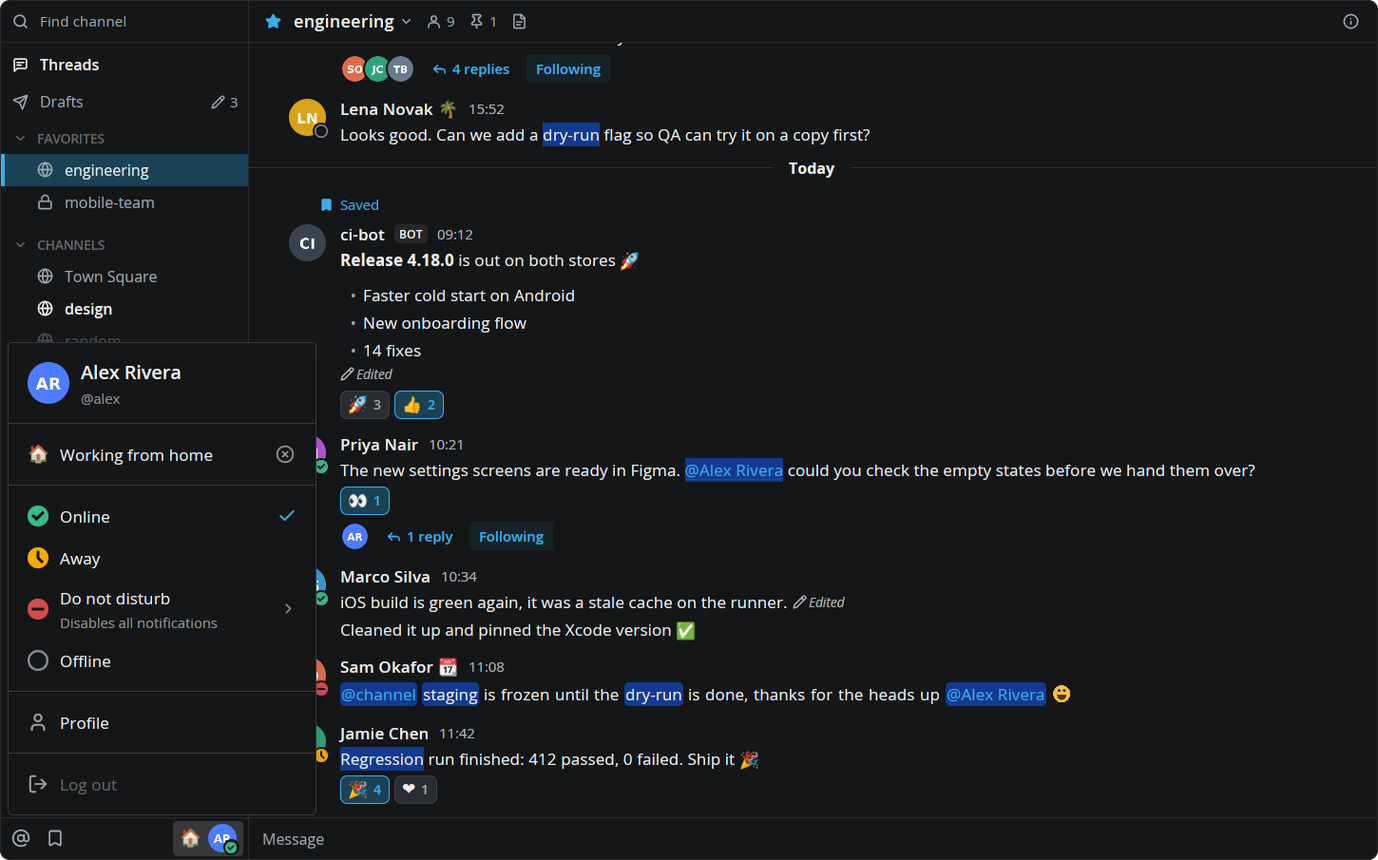
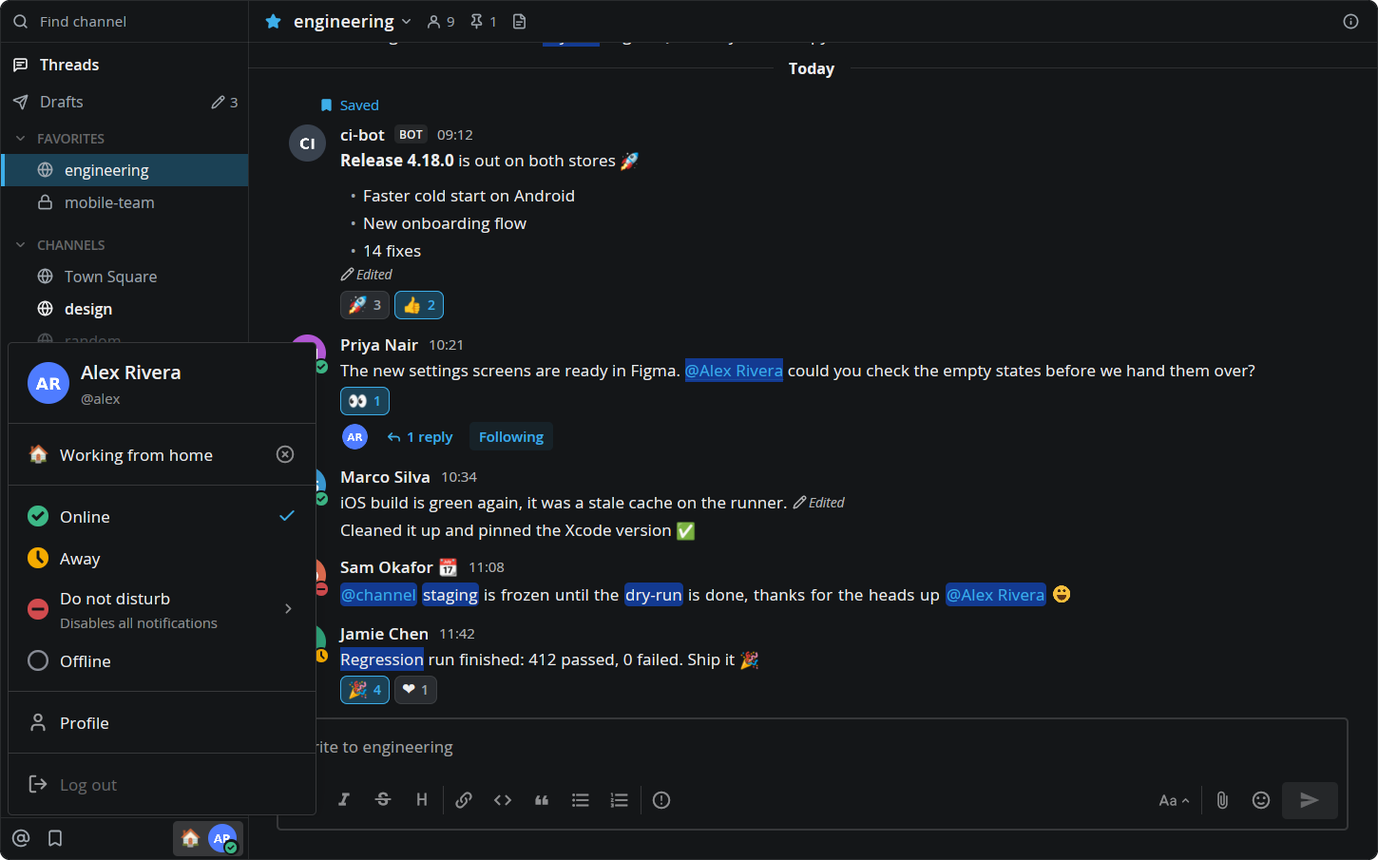
Document the message box and refresh the screenshots

Changed region(s): [[0.1862, 0.0309, 0.9, 0.9591], [0.5586, 0.0619, 0.6207, 0.0928], [0.1862, 0.9591, 0.2483, 0.9901]]

diff --git a/RECIPE.md b/RECIPE.md
@@ -25,7 +25,7 @@ The panel follows the Herdr theme (`background`, `foreground`, `accent`, `border
   - A ⋯ button shows on hover: Mark as Read/Unread, Favorite, Mute Channel, Move to… › (Favorites first, then your categories and New Category; channels can't go under Direct Messages nor conversations under Channels), Copy Link, and Leave Channel or Close Conversation.
   - Category headings have their own ⋯ menu: Mark category as read, Mute Category, Rename Category and Delete Category (custom ones), Sort › (alphabetically, recent activity, manually), Create New Category.
   - The Direct Messages heading's menu is Sort ›, Show › (10, 15, 20 or 40) and Open a direct message, which searches people.
-  - A 36px **footer** under the list, like the Find channel bar upside down, on one line with the message box beside it: two 28px toggles for Recent mentions (`@`) and Saved messages (a bookmark), `accent` while their list is open, and on the right a 30px account button. That's your 24px avatar with its status, and when you have a custom status its 18px emoji before it on a 16% pill. A press on the emoji opens Set a status, and anywhere else on the button opens the account menu. These live here and not in the channel header, because a channel header isn't there on Threads and Drafts.
+  - A 36px **footer** under the list, like the Find channel bar upside down: two 28px toggles for Recent mentions (`@`) and Saved messages (a bookmark), `accent` while their list is open, and on the right a 30px account button. That's your 24px avatar with its status, and when you have a custom status its 18px emoji before it on a 16% pill. A press on the emoji opens Set a status, and anywhere else on the button opens the account menu. These live here and not in the channel header, because a channel header isn't there on Threads and Drafts.
 - **The channel header**, 36px like the Find channel bar: a star (favorite, `accent` when on), the name with a ▾ menu, the member count, the pinned count and a files icon, each of which opens the right-hand panel, and an ⓘ on the far right. In a direct message the name carries the person's status and custom-status emoji, and its menu is View Info, Mute, Edit Header, Move to ›, Close Direct Message.
 - **Messages**, newest at the bottom:
   - A post is a 53px avatar column (32px avatar, status ring at its bottom right) and the content: the name in 14px semibold, the custom-status emoji (hover it for the status text and when it clears), a BOT tag for bots (10px semibold on an 8% pill), and the time in 12px at 73%. A post within 5 minutes of the same person's previous one leaves the header out.
@@ -50,7 +50,14 @@ The panel follows the Herdr theme (`background`, `foreground`, `accent`, `border
   - On the right, 40px buttons 8px apart (radius 4, white at 16% on hover) with 24px icons: public link (for a server file where `EnablePublicLink` is on), download, close.
   - The image sits in 48px of padding with radius 8, at its own size, shrunk only to fit.
 - **The image menu** opens at the pointer on a right-click on any picture in a message or the viewer: Save Image, Save Image As…, Copy Image. In the viewer, a server file also gets a line and Open in new tab, Open in new window.
-- **The message box** is a flat bar across the bottom of its column, 36px for one line, with a line on top and 12px on each side, so it mirrors the header above and runs level with the sidebar's footer. Mattermost's is a bordered box with margins, but no margin lets a box's middle match a bar flush with the panel's edge. Long text wraps and the bar grows upward, as in Mattermost up to half the height less 40px (here the panel's, and at least 3 lines), then scrolls inside. The footer stays put. Enter sends and Shift+Enter adds a line. Each channel and thread keeps its own text, so the box opens on that conversation's draft. A draft holding files says it sends with them.
+- **The message box** is Mattermost's: a box with a 2px border at 16% (24% on hover, 32% while it has the keyboard) and radius 4, 24px in from the column's sides (16px in the right-hand panel, 12px under its thread) with 24px under it for errors. Below a 768px wide panel it runs from edge to edge with no side borders, as Mattermost does on a narrow screen. The text is 14px on 20px lines, padded 13px 16px 12px, with the placeholder "Write to <channel>" or "Reply to this thread...". Long text wraps and the box grows upward, up to half the panel's height less 40px (at least 3 lines), then scrolls inside. Enter sends and Shift+Enter adds a line. Each channel and thread keeps its own text, so the box opens on that conversation's draft.
+  - **The formatting bar**, 48px under the text, 7px in, 32px buttons 2px apart with 18px Compass icons at 56%: Bold, Italic, Strikethrough, Heading, a 1px line at 16%, Link, Code, Quote, Bulleted list, Numbered list, then a line and Message priority (!) where the server has it. Each tooltip names the control and its shortcut.
+  - **On the right**, 7px from the corner: Aa with a chevron (shows or hides the bar), a line, the paperclip, the emoji button and Send, a 48×32 `accent` button with the paper plane that turns 8% with the plane at 32% while there's nothing to send.
+  - **With the bar hidden**, the actions share the text's line until it needs a second one, and in a reply box always sit under it, as Mattermost leaves the bar's room.
+  - **Narrower boxes give up controls** into a ⋯ "More formatting options" button, by the bar's own width as Mattermost's hooks measure it: all nine from 641px (620px in the right-hand panel), five from 424px (460px), two from 310px (340px), one below. A channel box keeps one extra control (priority) before losing another; the right-hand panel's doesn't. The separators show only when nothing is hidden. The hidden controls open as a row in a card (5px padding, a border at 16%, `shadow_md`) 4px over the button, centred on it, and stay open while you use them. Esc, a press in the box or anywhere else in the panel closes it.
+  - **The eye** in the box's top right shows the text as it will post (Show/Hide Preview), while the bar shows and there's text. The controls, priority, emoji and Aa are disabled meanwhile.
+  - **Message priority** opens Mattermost's picker over the button: "Message priority", Standard, Important and Urgent with a check on the chosen one, and, where the server has `PostAcknowledgements`, Request acknowledgement with a switch and Cancel / Apply. Without acknowledgements a choice applies at once. The choice shows over the text as an IMPORTANT or URGENT tag, a green check for an acknowledgement (with the words when there's no priority) and a × that takes it off. Sent posts carry the tag after their time.
+  - **Files**: the paperclip, Ctrl+U or a drop on the box adds files, up to 10 a post and none over the server's `MaxFileSize`. Each shows as a 240×56 card under the text with its name, type and size, "Uploading…" until it's up, and a × that takes it off the draft. Send waits for uploads to finish. A draft started in the web app shows its files the same way.
 - **Suggestions** open over the message box, the thread reply boxes and the edit box as you type, in a card up to 496×292 at the box's left edge (radius 4, a border at 16%, `shadow_lg`), 4px above it and as wide as the box when that's narrower. Uppercase 12px semibold group headings sit in 28px with 12px above, and every group after the first has a line at 8% over its heading. Rows are 40px (commands 57px), the selected one at 8%. Going by the text before the caret:
   - **`@`** after the start or a non-word character, then letters, digits, `-`, `_`, `.` or spaces: Channel Members (in a thread its authors first, then those starting with what you typed, then by your direct message's last view, then by name), Agents, Group Mentions with a member count, Special Mentions (@here, @channel, @all, only with `use_channel_mentions`) and Not in Channel. A row has the avatar with status, `@name`, a BOT, AGENT or GUEST tag, the full name and nickname, "(you)" and the custom status emoji. Names match on any part: the username split at `.`, `-` and `_`, first, last and nick names, ignoring accents. Until the server first answers for a channel, those who wrote in it stand in for its members. An "Other Members" group shows "Loading…" when the server takes over 500ms.
   - **`~`** after a non-word character: My Channels (your public ones at once, your private ones when the server answers), then Other Channels with "Loading…" until it does. Every typed word has to start a word of the name. With `DelayChannelAutocomplete` it waits for 2 characters.
@@ -111,6 +118,10 @@ The panel follows the Herdr theme (`background`, `foreground`, `accent`, `border
 - **Saving an image**: Save Image and the viewer's download button fetch the original file, not the preview, and put it in the downloads folder (`xdg-user-dir DOWNLOAD`, else `~/Downloads`), as `name (1).ext` when the name is taken. Any path in the name goes. A "Download Complete" toast shows where it went. Save Image As… asks through `kdialog` or `zenity` first and fetches only after that, and cancelling does nothing. Without either tool it saves to the downloads folder and says why.
 - **Copy Image** puts the original on the clipboard as a PNG, because Chromium-based apps read only `image/png`. Without `ffmpeg` the file goes as it is.
 - **Open in new tab and Open in new window** draw only the viewer, in a tab of the current space or a floating window. They work with no panel running. The new tab is disabled while there's no space, and it has no ✕ because its tab bar closes it.
+- **Formatting** does to the text exactly what Mattermost's `apply_markdown.ts` does, ported as it is: Bold and Italic wrap the selection in `**` or `*` (leaving spaces at its ends outside, taking them off when they're already there, and Italic on `**text**` adding to it), Strikethrough in `~~`, Code in `` ` `` or a fenced block when the selection spans lines, Link in `[text](url)` with `url` selected (around the word at the caret with nothing selected), and Heading, Quote and the lists prefix every selected line with `### `, `> `, `- ` or `1. `, `2. `… or take it off when every line has it. The new selection is Mattermost's. Each change goes into the draft as typing would.
+- **Composer shortcuts**, from Mattermost's key handler: Ctrl+B, Ctrl+I, Ctrl+K (only with a selection), Ctrl+Alt+K, Ctrl+Alt+C, Shift+Alt+X, Shift+Alt+7, 8 and 9, Ctrl+Alt+T (the bar), Ctrl+Alt+P (preview), Ctrl+Alt+E (emoji) and Ctrl+U (files). They do nothing with the caret inside a code block, as there. Ctrl+Shift+E, Mattermost's other emoji key, is Herdr's own split, so it's left to Herdr.
+- **The formatting bar's state** is Mattermost's `advanced_text_editor` preference, `post` for a channel and the Threads page and `comment` for the right-hand panel, so it's kept on the server and follows you to the web app and back. The demo keeps it in `localStorage`.
+- **Emoji from the box's picker** go in at the caret as their character (custom ones as `:name:`), with a space after and one before when they'd touch a word.
 - **Keyboard**: a click in the panel takes the keyboard, like a pane. If the message box has it, the box keeps it, as in Mattermost. Esc closes popups and cancels an edit. Up/down and Enter drive Find Channels. An open suggestion list gets up, down, Tab, Enter and Esc first.
 - **Commands**: a message starting with `/` goes to `/commands/execute` instead of `/posts`, with the channel and thread, and the answers arrive over the websocket as `ephemeral_message`: drawn as from System with the BOT tag and "(Only visible to you)", gone at the next reload. A `goto_location` opens that conversation here, or the browser for another site. A command the server refuses goes back in the box with the server's message, and a second Enter on an unknown one sends it as text. As in Mattermost, a leading space makes it plain text. `/header` and `/purpose` alone open their dialogs, and `/leave` asks first in a private channel, closes a direct or group message and says it can't work in a thread. A command is sent once, with 60 seconds to answer, because sending it again could run it twice. It takes no files, so a draft's files stay in the draft for the next message.
 - **The tab badge**: the panel publishes `shared("mattermost.badge")` = `{ mentions, unread }` (mentions as a count, else unread means a dot) for a tab bar button, `shared("mattermost.alive")` = the time it last ran (restamped every 15s, cleared when the last copy closes; shared state outlives a restart, so a button treats a stamp older than 40s as not running and grays out), and `shared("pane-header:mattermost")` = `{ name, detail, icon, tint, loading }` for a pane header.
@@ -125,6 +136,7 @@ The panel follows the Herdr theme (`background`, `foreground`, `accent`, `border
   - `src/menu.js` holds every menu and its forms.
   - `src/picker.js` is the emoji picker and `src/switcher.js` is Find Channels.
   - `src/suggest.js` is the suggestion lists: what triggers them, their requests, ranking and drawing.
+  - `src/composer.js` draws the message boxes, each a retained part of its own, and `src/format.js` is the formatting: Mattermost's apply_markdown ported, the bar's layout modes, the shortcuts and reading the selection. `src/priority.js` is message priority (the picker is a popup copy with the prop `priorityPicker`), and `src/upload.js` is choosing and uploading files.
   - `src/dialog.js` has the status card and the edit-header dialog.
   - `src/image.js` is the image viewer, the image menu's entries, and saving and copying images.
   - `src/profile.js` is the Profile modal and its first tab, `src/picture.js` the picture section, `src/security.js` the Security tab, and `src/setting_item.js` the sections, fields, buttons and stacked modals they share.
@@ -137,7 +149,7 @@ The panel follows the Herdr theme (`background`, `foreground`, `accent`, `border
   - `src/media.js` downloads images and files, makes posters and starts the player.
   - `demo/demo.js` is a made-up team, with its initials avatars in `demo/avatars/` and its pictures and clips in `demo/media/`.
   - `emoji/emoji.json` maps names to characters, and `emoji/picker.json` holds the picker's categories.
-  - `icons/` has the SVGs, referenced as `mods/mattermost/icons/<name>.svg`: Lucide-style line icons (24px viewBox, stroke `currentColor`), plus the Mattermost logo, the four status shapes, and Mattermost's Compass `link-variant` and `download-outline` (filled with `currentColor`).
+  - `icons/` has the SVGs, referenced as `mods/mattermost/icons/<name>.svg`: Lucide-style line icons (24px viewBox, stroke `currentColor`), plus the Mattermost logo, the four status shapes, and Mattermost's Compass `link-variant` and `download-outline` (filled with `currentColor`). `icons/compass/` has the composer's Compass icons, filled the same way, under their own licence (`LICENSE-compass`).
   - Modules in `src/` import shared helpers back from `../main.js`.
 - **Where it goes**, either way:
   - **A pane**: `herdr-app do pane.split --direction right --mod mattermost`.
@@ -163,6 +175,7 @@ The panel follows the Herdr theme (`background`, `foreground`, `accent`, `border
   - Security: `PUT /users/{id}/password`; `PUT /users/{id}/mfa`, `POST /users/{id}/mfa/generate`; `GET /users/{id}/oauth/apps/authorized`, `POST /oauth/deauthorize` (outside `/api/v4`); `GET` and `POST /users/{id}/tokens`, `POST /users/tokens/{revoke,disable,enable,rotate}`; `GET /users/{id}/sessions`, `POST /users/{id}/sessions/revoke`; `GET /users/{id}/audits`.
   - Highlighting and status: `/license/client?format=old`, `/cloud/subscription` and `/cloud/products` (on cloud, with keywords set), `POST /users/status/ids` for `manual`, `PUT /users/{me}/status` with the whole status, preference `auto_reset_manual_status` (name = your user id).
   - Drafts: `/users/me/teams/{team}/drafts`, `POST /drafts`, `DELETE /users/me/channels/{id}/drafts` (`/{root}` for a thread's).
+  - The message box: `POST /files` (multipart `files` and `channel_id`, by `curl`), `GET /files/{id}/info` for a draft's files, `PUT` preferences `advanced_text_editor` (`post`, `comment`; `"true"` hides the bar), and `metadata.priority` (`priority`, `requested_ack`, `persistent_notifications`) on `POST /posts` and as `priority` on `POST /drafts`. The client config's `PostPriority`, `PostAcknowledgements`, `EnableFileAttachments` and `MaxFileSize` decide what the box offers.
   - Images: `GET /files/{id}` for the original, `GET /files/{id}/link` for the public link (`{ link }`).
   - Suggestions: `/users/autocomplete?in_team=&in_channel=&name=&limit=25`, `/teams/{team}/channels/autocomplete`, `/emoji/autocomplete`, `/teams/{team}/commands/autocomplete_suggestions`, `/groups?q=&filter_allow_reference=true` (with `EnableCustomGroups` or an LDAP groups license from `/license/client`, and with `use_group_mentions`; in a group-constrained team or channel only its groups and custom ones), `/agents`. Permissions come from `/roles/names` for your system, team (`/users/me/teams/members`) and channel roles, asked the first time they're needed and allowed until answered.
   - Actions: `/posts`, `/commands/execute`, `/posts/{id}/patch`, `/reactions`, `/channels/members/me/view`, `/posts/{id}/pin`, `/users/{me}/posts/{id}/reminder`, `/users/{me}/posts/{id}/set_unread`, category `PUT`s, preference `PUT`s (`flagged_post`, `recent_emojis`, `direct_channel_show`, `sidebar_settings`), `/channels/direct`, `/teams/{team}/channels/search`, `/users/autocomplete`, `/emoji`.
@@ -218,8 +231,10 @@ The panel follows the Herdr theme (`background`, `foreground`, `accent`, `border
 - **Animations are expensive**: `image()` plays GIF and animated WebP natively but decodes every frame up front, and Herdr keeps decoded images until it quits (herdrdev/herdr-app#22). Playing two small clips took the app from 6% to 24% of a core. So they start as stills, one plays at a time, and past 512 MB of decoded frames they open in the player instead. Thumbnails and icons stay on their first frame. Servers count frames only for GIFs, so each downloaded picture's header is checked, leaving an `.anim` marker beside it. Every static image stays in memory too, so one over 64 megapixels, by the server's word or `ffprobe`'s (a `.big` marker), isn't drawn and is a link to itself instead.
 - **Herdr has no video element or web view**, so a video can't play with sound inside the panel. `mpv --vo=kitty` in a terminal block and flipping frames through `image()` both grow memory without limit (#22).
 - **State can't be created while drawing**: `InputState.new` and `TextareaState.new` throw. Create text boxes in `init` (the setup form's too, before knowing whether it's needed), and hand popup requests to `cx.timer.after(0, ...)`.
-- **A mod can't read the caret**: `InputState` has `set_selected_range` and `replace` (both in JavaScript string offsets) but no getter. An edit leaves the caret right after what changed, so comparing the old and new text gives the place, helped by the last known caret when equal letters make it ambiguous. Left, right, home, end, select all and a press in the box can move it unseen, so they close an open list, and the place stays unknown until the next edit. Mattermost keeps the list open then. The list also can't start at the caret as Mattermost's does, since a mod can't measure text.
+- **A mod can't read the caret**: `InputState` has `set_selected_range` and `replace` (both in JavaScript string offsets) but no getter. To format, the box swaps the selection for a private-use character (U+E000) with `replace`, finds it in `value()`, takes what went missing as the selection, and puts the text back with `set_value` and `set_selected_range` before applying the change, all in one handler. Herdr reports a single `change` after the handler, by which time the text is the formatted one, so the draft and the suggestions never see the marker; the box already holds what that event would tell them. Offsets are UTF-16 throughout, so emoji and Cyrillic count as `slice` counts them. For suggestions, an edit leaves the caret right after what changed, so comparing the old and new text gives the place, helped by the last known caret when equal letters make it ambiguous. Left, right, home, end, select all and a press in the box can move it unseen, so they close an open list, and the place stays unknown until the next edit. Mattermost keeps the list open then. The list also can't start at the caret as Mattermost's does, since a mod can't measure text.
 - **Up, down and Tab are actions**: the box's Tab moves the keyboard on before `on_key_down` hears it, and a textarea keeps all three. So they're bound with `cx.bind_keys` to actions the box handles, in the context `mattermost-suggesting > Input`, which outranks the kit's `Input` bindings. The box declares that context only while a list has rows. Never bind them more widely: Herdr reports any action no element handles as an unknown command, in a toast, and stops there, which breaks those keys in every text box of the app. Herdr also drops a mod's bindings whenever `keys.json` changes, even for a save with the same text, so they're installed again when a list opens and the file's modified time differs from last time. Binding them on every open would pile them up, since `cx.bind_keys` only adds.
+- **The composer's shortcuts are `on_key_down` on the box**, not `cx.bind_keys`: the text box has no action of its own for them, so the keys reach its parent, and nothing is bound app-wide. A key Herdr binds itself (Ctrl+Shift+E) never gets there.
+- **A text box paints its own background over an absolutely placed sibling drawn before it**, so the preview's eye comes last in the box. The placeholder sits on the box but is drawn only while it's empty.
 - **A textarea puts the line break in before it reports Enter**, and `set_value` reports no `change` (Herdr 0.1.11). So the message and edit boxes remember the text from before the last change, restore it on a plain Enter and then send. The boxes also remember what was put in them as `shown`, since text equal to that isn't an edit.
 - **Presses**:
   - A press that bubbles out of the panel makes Herdr give the keyboard to the block. So the panel's root stops every left press, and text boxes stop their own.
@@ -235,7 +250,7 @@ The panel follows the Herdr theme (`background`, `foreground`, `accent`, `border
 - **Scrolling**: only virtual lists can be scrolled from a mod, so an opened section can sit below the fold. A `Scrollbar` with `.mode("always")` can be dragged with injected input, which is the way to test scrolling.
 - **Demo**: its made-up server lives in each copy of the mod, so the dialog's tokens and sessions reset when it reopens.
 - **Open Sans** must be installed; without it text falls back to the UI font and the spacing drifts.
-- **Not built**: Settings (Mattermost's dialog is about 13,400 lines of its own), keyboard control of the date and time dropdowns, your Mattermost timezone setting (times use the machine's), editing graph-type custom attributes, keyboard control of the Profile sidebar, suggestions from Mattermost's Apps framework (`FeatureFlagAppsEnabled`), plugin icons in the command list, shared-channel and imported-inactive markers in the people list, the `+:emoji:` shortcut for reacting, interactive dialogs that commands open (`trigger_id`), Forward, a custom Remind time, the emoji skin-tone picker, Select All in the image menu (a mod can't select across a message's text views), the viewer's zoom bar and its previews of files that aren't still pictures, keyboard shortcuts inside menus, the + beside the Direct Messages heading, scheduling a draft and scheduled messages, file uploads, buttons and menus in bot attachments, `~channel` and `#hashtag` links, inline code boxes and paragraph spacing like Mattermost's, and hover-only link underlines (Herdr's markdown always underlines links and draws inline code as a flat background; herdrdev/herdr-app#131).
+- **Not built**: Settings (Mattermost's dialog is about 13,400 lines of its own), keyboard control of the date and time dropdowns, your Mattermost timezone setting (times use the machine's), editing graph-type custom attributes, keyboard control of the Profile sidebar, suggestions from Mattermost's Apps framework (`FeatureFlagAppsEnabled`), plugin icons in the command list, shared-channel and imported-inactive markers in the people list, the `+:emoji:` shortcut for reacting, interactive dialogs that commands open (`trigger_id`), Forward, a custom Remind time, the emoji skin-tone picker, Select All in the image menu (a mod can't select across a message's text views), the viewer's zoom bar and its previews of files that aren't still pictures, keyboard shortcuts inside menus, the + beside the Direct Messages heading, scheduling a draft and scheduled messages, the formatting bar in the edit box (Mattermost has it there too), persistent notifications for urgent messages (the switch, its confirmation and the mention checks), the acknowledgement button on posts, the GIF picker, an upload's progress in percent, pasting images into the box, buttons and menus in bot attachments, `~channel` and `#hashtag` links, inline code boxes and paragraph spacing like Mattermost's, and hover-only link underlines (Herdr's markdown always underlines links and draws inline code as a flat background; herdrdev/herdr-app#131).
 - **Copy Image** runs `wl-copy`, so it works on Wayland only; on X11 or macOS swap in `xclip` or `pbcopy`. Links open with `xdg-open` (`open` on macOS).
 - **`exec("wl-copy", ...)` doesn't return for up to 30s**, because `wl-copy` keeps `exec`'s stderr pipe open. Text goes through `cx.write_to_clipboard`, and Copy Image redirects `wl-copy`'s output inside `sh -c`.
 - **`ffmpeg` reads a file named `.jpg` through `image2`**, which `FF_FORMATS` leaves out, so Copy Image pipes the file through stdin.
@@ -264,7 +279,10 @@ The panel follows the Herdr theme (`background`, `foreground`, `accent`, `border
 - Typing in a channel and opening another leaves the box empty and adds one to the count, and going back brings the text back. With a real login the draft also shows in the web app's Drafts, and one written there shows here within a second.
 - With `props: { demo: true, channel: "engineering" }`, `@` in the message box lists Channel Members, then Group Mentions, Special Mentions and Not in Channel (ines, tom). Down scrolls the list, Enter or Tab puts the name in with a space and the caret after it, and Tab with no list open moves the keyboard on with no toast.
 - `~` lists My Channels then Other Channels (Hiring, Offsite 2026), `:sm` lists emoji, and `/` lists commands. `/echo` and Enter, Enter again on Execute Current Command shows a System post with "(Only visible to you)". `/nope x` shows the server's error and keeps the text, and a second Enter sends it.
-- Text longer than the box wraps and the box grows upward. Shift+Enter adds a line, Enter sends it with the line break, and a two-line draft keeps its lines after leaving the channel and coming back. With nothing typed, the line above the box and the footer's line are one line, and the box's text and the footer's icons share a middle.
+- Text longer than the box wraps and the box grows upward. Shift+Enter adds a line, Enter sends it with the line break, and a two-line draft keeps its lines after leaving the channel and coming back.
+- The box reads "Write to engineering", with B I S H | link code quote bullets numbers | (!) under it and Aa ^ | paperclip, emoji and a dimmed Send on the right. Text selected and B (or Ctrl+B) becomes `**text**` with the text still selected; three lines and Shift+Alt+7 become `1. `, `2. `, `3. `; an empty box and Link gives `[](url)`. Emoji and Cyrillic before the selection don't shift it.
+- With the thread beside the channel, the channel's bar shows fewer controls and ⋯, and ⋯ opens the rest in a row over it. Ctrl+Alt+T hides the bar, and it stays hidden after a restart; the web app sees the same preference.
+- Message priority › Important with Request acknowledgement, Apply, then Enter sends `metadata.priority` and the post shows IMPORTANT. The paperclip opens `kdialog` or `zenity`, the chosen file shows as a card, and Enter sends its id in `file_ids`.
 - Typing in the middle of a message completes in place, with the text after the caret kept. Left closes the list.
 - In the edit box, `@` opens the list, up and down move in it instead of the caret, Enter takes the row without saving, the first Esc closes the list and the second cancels the edit.
 - `/leave` in a private channel asks first, and Cancel closes the question with no menu behind it.

diff --git a/README.md b/README.md
@@ -1,6 +1,6 @@
 # Mattermost for Herdr
 
-A [Herdr](https://herdr.dev) mod that puts your Mattermost team in a panel beside your terminals, drawn like the Mattermost desktop app. It has the channel sidebar with your categories, unreads and statuses, and live channels with markdown, images, GIFs, bot attachments, link previews, threads, reactions, the emoji picker, Find Channels, inline editing, drafts, the post menu, Recent Mentions, Saved messages, your status and custom status, your profile, and Mattermost's suggestions as you type (`@` people and groups, `~` channels, `:` emoji, `/` commands). Videos play in `mpv`, in their own window, because Herdr can't play them inside a panel.
+A [Herdr](https://herdr.dev) mod that puts your Mattermost team in a panel beside your terminals, drawn like the Mattermost desktop app. It has the channel sidebar with your categories, unreads and statuses, and live channels with markdown, images, GIFs, bot attachments, link previews, threads, reactions, the emoji picker, Find Channels, inline editing, drafts, the post menu, Recent Mentions, Saved messages, your status and custom status, your profile, Mattermost's suggestions as you type (`@` people and groups, `~` channels, `:` emoji, `/` commands), and its message box with the formatting bar and shortcuts, message priority, file uploads and preview. Videos play in `mpv`, in their own window, because Herdr can't play them inside a panel.
 
 ![Mattermost in Herdr](preview.png)
 
@@ -39,6 +39,7 @@ To try it without a server, give the block `"props": { "demo": true }`. It shows
 - Webhook icons, images in messages and link preview pictures from other hosts are downloaded without the token. Those hosts see your address, as they would in a browser.
 - Avatars, emoji, images and attachments are cached in `~/.config/herdr-app/data/mattermost/`. Files you open stay there for two weeks, and pictures from other hosts for 30 days.
 - Unsent drafts stay in `~/.config/herdr-app/data/mattermost/`, readable only by you. When your server allows synced drafts they also go to it, as the web app's do.
+- Attaching files to a message uses `kdialog` or `zenity` (or a drop on the box). The files go to your Mattermost server through `curl`.
 - Choosing a profile picture uses `kdialog` or `zenity` if you have one. The picture goes to your Mattermost server and a temporary copy stays in `~/.config/herdr-app/data/mattermost/private/` until the section closes.
 - Save Image copies the file into your downloads folder. Save Image As… asks where through `kdialog` or `zenity` if you have one.
 - The mod runs `curl` for downloads, `xdg-open` for links and files, and `wl-copy` for Copy Image (Wayland only). `ffmpeg`, `ffprobe` and `mpv` are optional: they add video posters, GIF stills, the limits on GIF memory and image size, and playback (without `mpv`, video opens in your default player).
@@ -67,6 +68,10 @@ Recent Mentions and its filters:
 
 ![Recent Mentions and its filters](screenshots/mentions.png)
 
+The message box with its formatting bar and a message priority:
+
+![The message box with its formatting bar and a message priority](screenshots/composer.png)
+
 Suggestions while typing:
 
 ![Suggestions while typing](screenshots/suggestions.png)
@@ -81,4 +86,4 @@ Profile:
 
 ## License
 
-MIT, see [LICENSE](LICENSE). The line icons in `mods/mattermost/icons/` are from [Lucide](https://lucide.dev) under the ISC license ([LICENSE-lucide](mods/mattermost/icons/LICENSE-lucide)). The Mattermost name and logo are trademarks of Mattermost, Inc.; this project is not affiliated with it.
+MIT, see [LICENSE](LICENSE). The line icons in `mods/mattermost/icons/` are from [Lucide](https://lucide.dev) under the ISC license ([LICENSE-lucide](mods/mattermost/icons/LICENSE-lucide)). The icons in `mods/mattermost/icons/compass/` are Mattermost's [Compass Icons](https://github.com/mattermost/compass-icons) under the MIT license ([LICENSE-compass](mods/mattermost/icons/compass/LICENSE-compass)). The Mattermost name and logo are trademarks of Mattermost, Inc.; this project is not affiliated with it.
